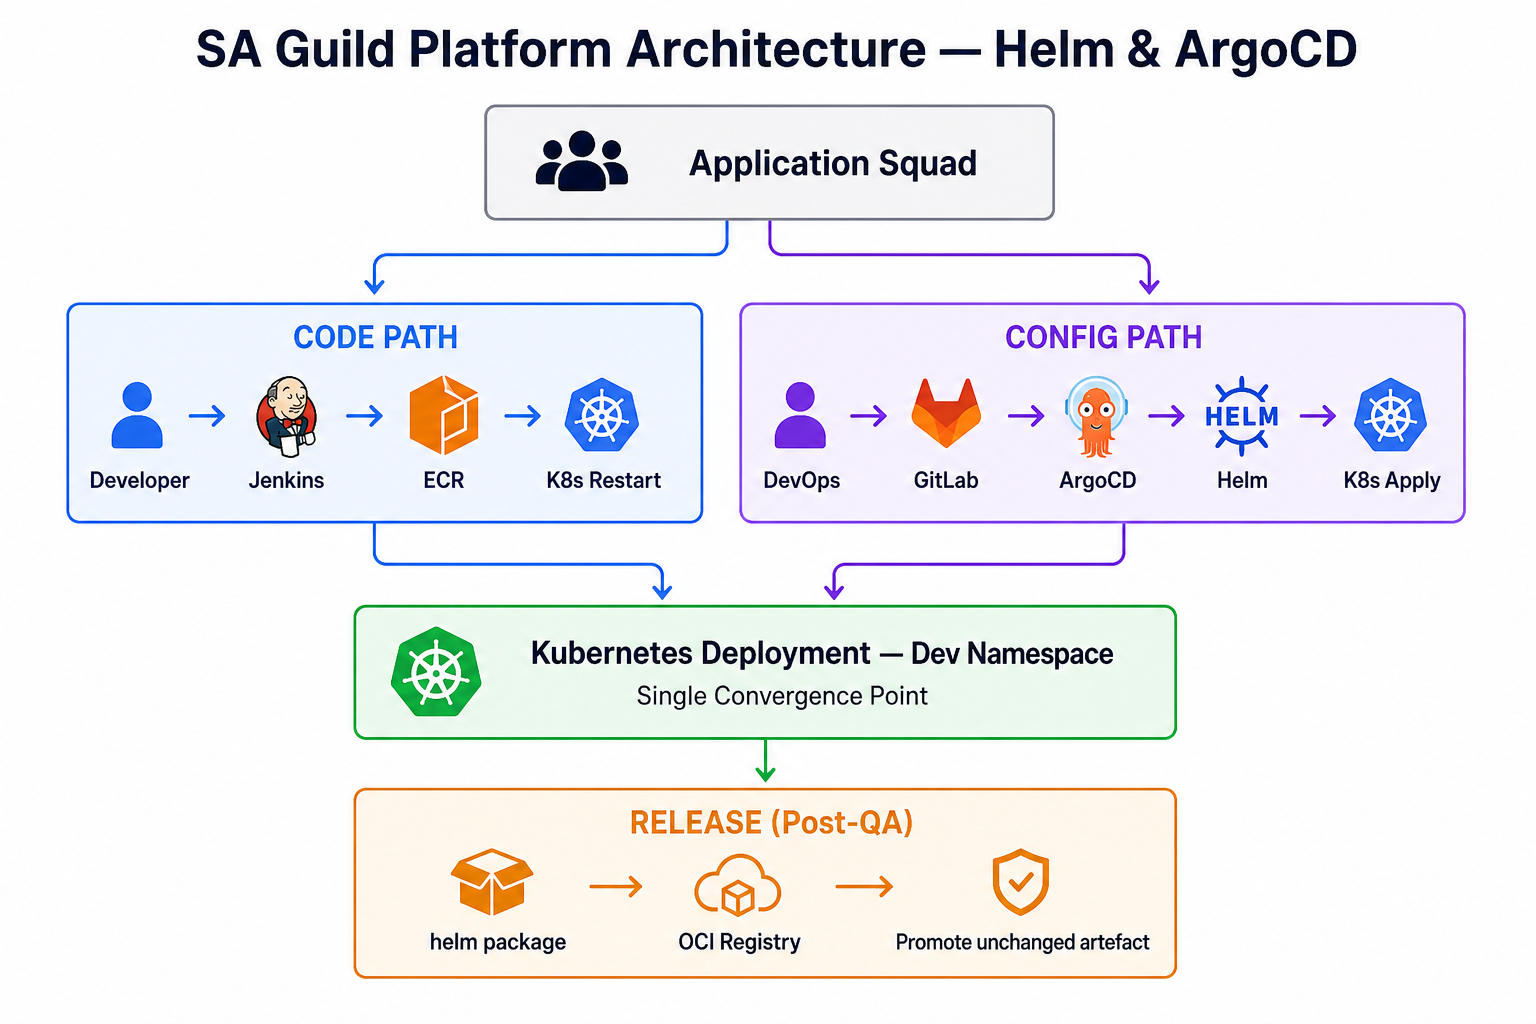
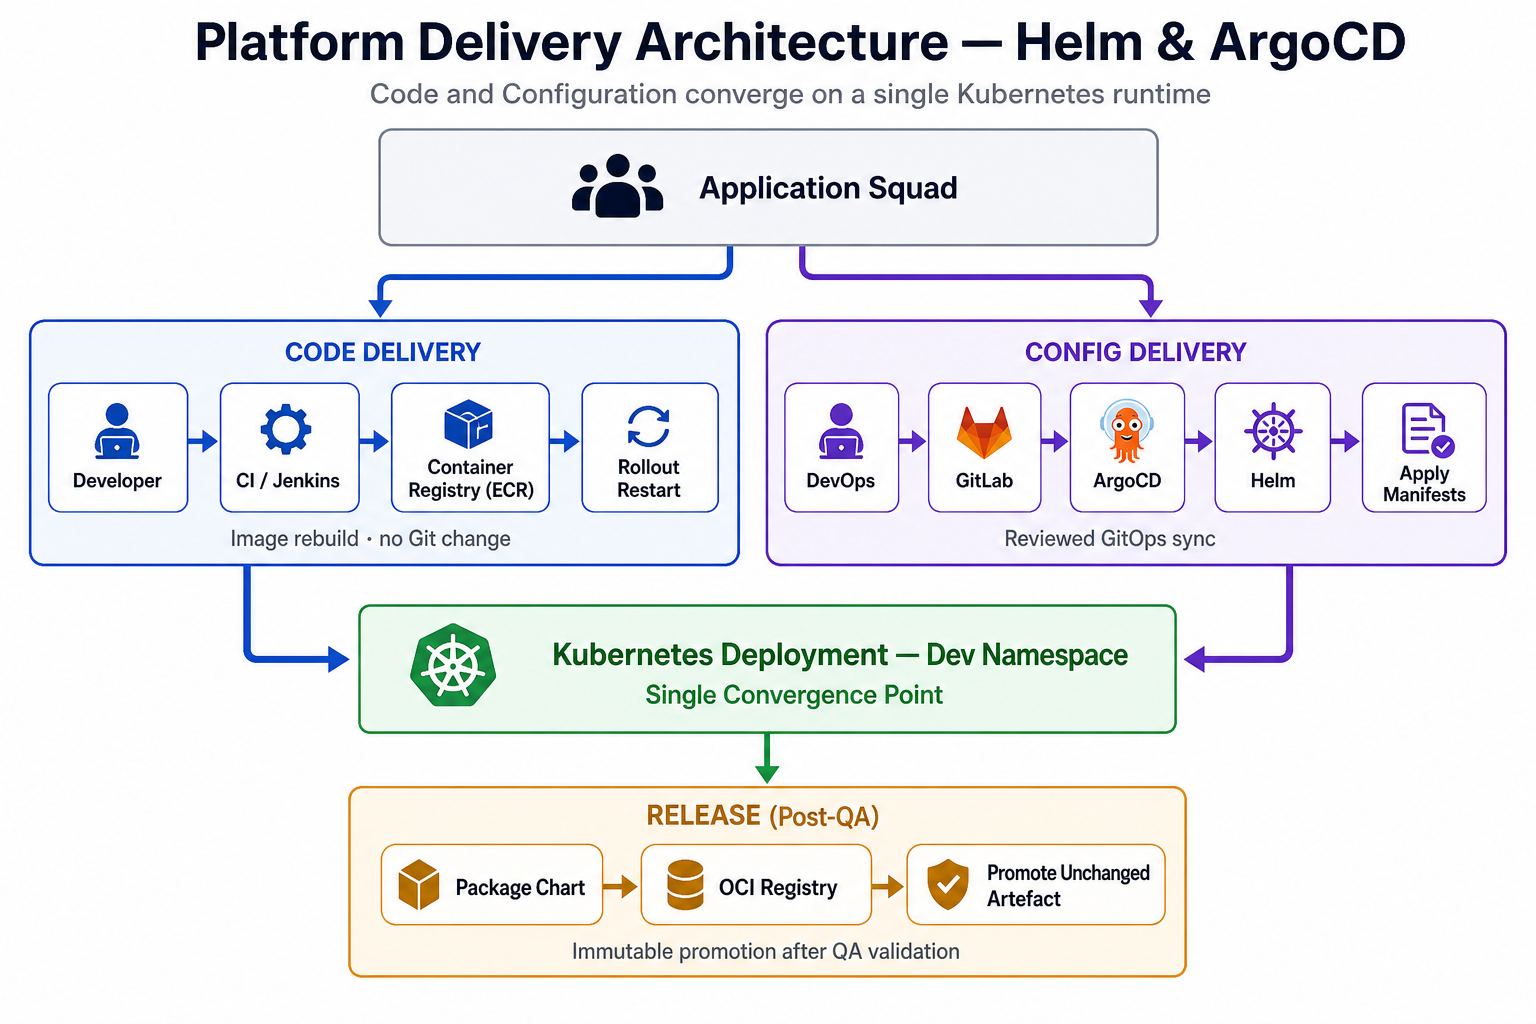
Refresh architecture diagram for CXO audience
Remove SA Guild branding from the visual and title; use Platform
Delivery Architecture framing with a white executive-style layout.

Changed region(s): [[0.0, 0.0, 0.9688, 0.9688], [0.75, 0.6875, 0.7812, 0.7188]]

diff --git a/SA_Guild_Architecture.md b/SA_Guild_Architecture.md
@@ -1,14 +1,14 @@
-# SA Guild Platform Architecture
+# Platform Delivery Architecture
 ## Shipping with Helm & ArgoCD — Dev → QA
 
 > Derived from **SA_Guils_proposal.pptx**  
 > Scope: Development through QA · Staging and Production to follow
 
-![SA Guild Platform Architecture](docs/architecture/SA_Guild_Architecture_Diagram.png)
+![Platform Delivery Architecture](docs/architecture/SA_Guild_Architecture_Diagram.png)
 
 ---
 
-## 1. System Context — The Guild Contract
+## 1. System Context — Delivery Contract
 
 The platform separates **application code** from **environment/configuration**. Each path has one owner, one trigger, and one convergence point: the **Kubernetes Deployment** in the Dev namespace.
 
@@ -296,7 +296,7 @@ flowchart LR
 2. `helm package ./my-app-deploy`
 3. `helm push my-app-1.0.0.tgz oci://registry/charts`
 
-**Guild principle:** The artefact that passes QA is the artefact promoted to Release — unchanged.
+**Promotion principle:** The artefact that passes QA is the artefact promoted to Release — unchanged.
 
 ---
 
@@ -370,7 +370,7 @@ flowchart TB
 
 ---
 
-## 9. Guild Readiness Checklist
+## 9. Adoption Readiness Checklist
 
 ```mermaid
 flowchart LR
